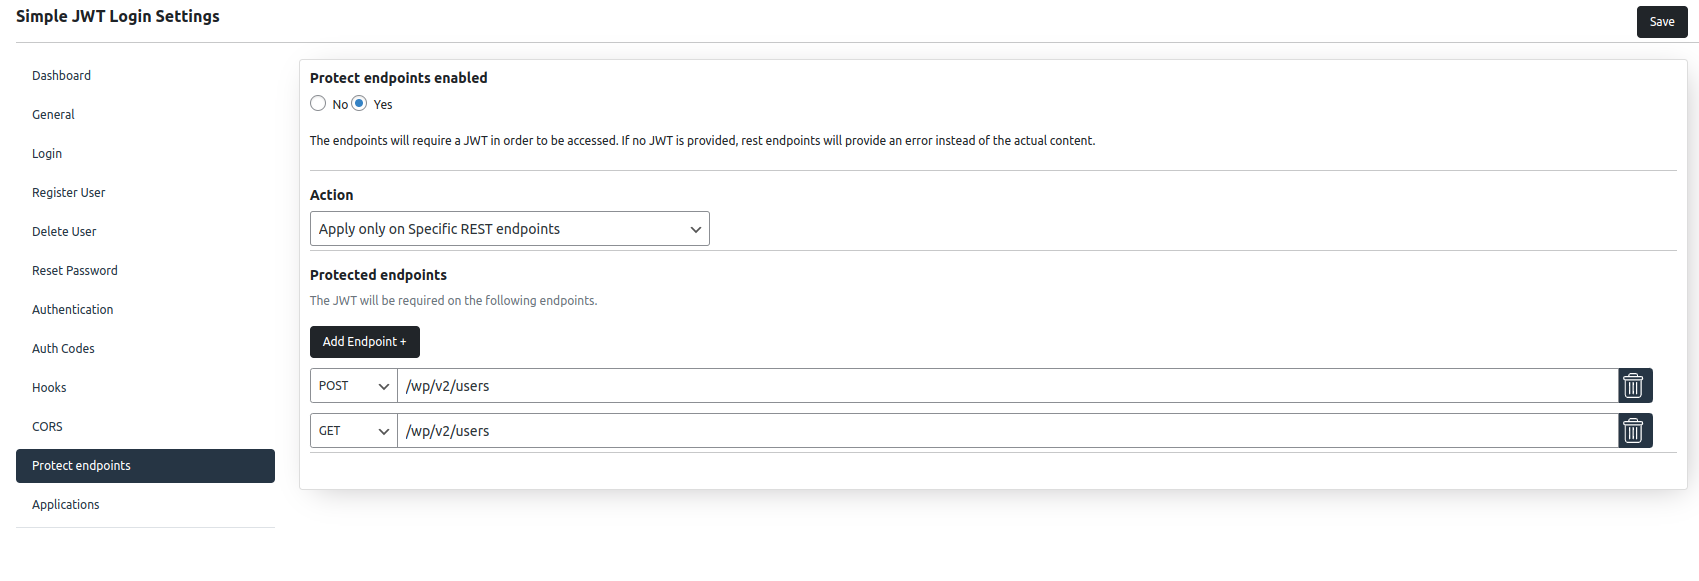
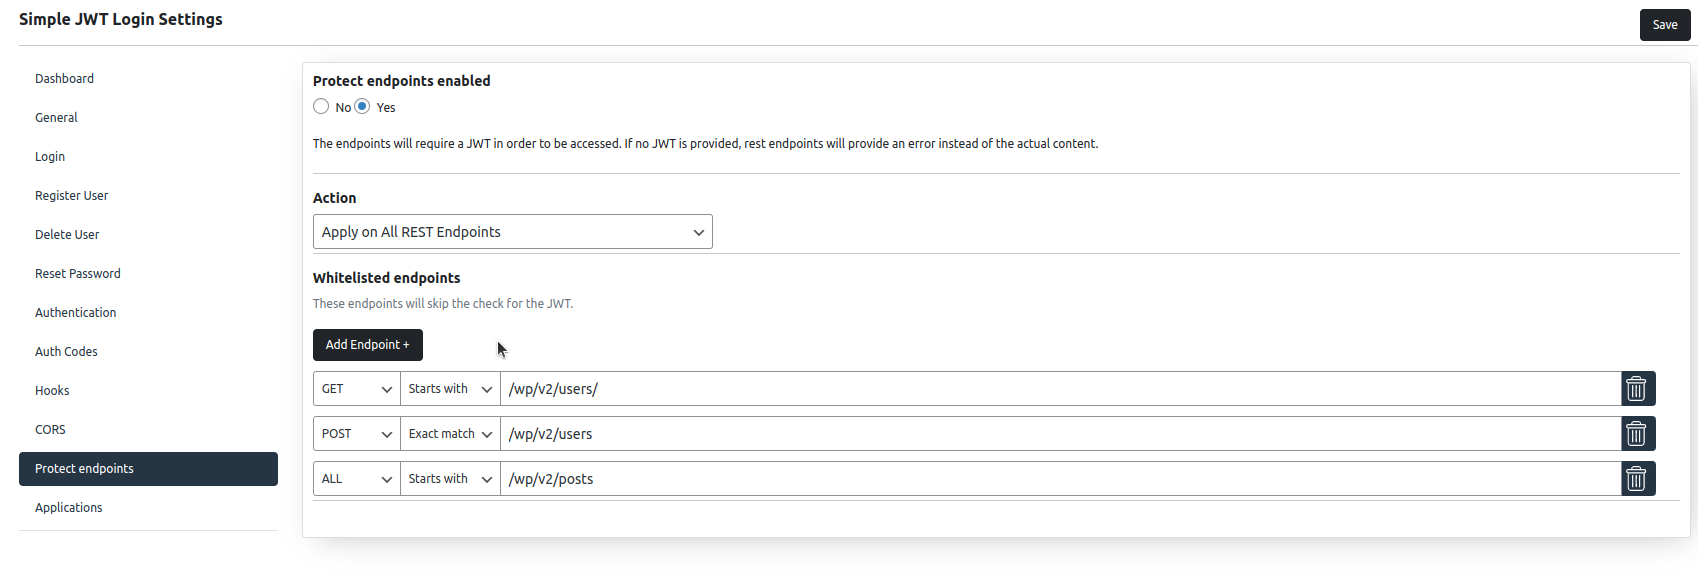
#143: Add starts with & exact match options to Protect Endpoints
* Add match or start_with  option to validate protect endpoints

* Prepare release 3.6.1

---------

diff --git a/simple-jwt-login/views/protect-endpoints-view.php b/simple-jwt-login/views/protect-endpoints-view.php
@@ -18,6 +18,18 @@ if (!defined('ABSPATH')) {
  */
 function simple_jwt_login_draw_endpoin_row($type, $endpoint)
 {
+    $requestMethodsOpts = [
+        ProtectEndpointSettings::REQUEST_METHOD_GET => __('GET', 'simple-jwt-login'),
+        ProtectEndpointSettings::REQUEST_METHOD_POST => __('POST', 'simple-jwt-login'),
+        ProtectEndpointSettings::REQUEST_METHOD_PUT => __('PUT', 'simple-jwt-login'),
+        ProtectEndpointSettings::REQUEST_METHOD_PATCH => __('PATCH', 'simple-jwt-login'),
+        ProtectEndpointSettings::REQUEST_METHOD_DELETE => __('DELETE', 'simple-jwt-login')
+    ];
+
+    $matchesOpts = [
+        ProtectEndpointSettings::ENDPOINT_MATCH_START_WITH => __("Starts with", "simple-jwt-login"),
+        ProtectEndpointSettings::ENDPOINT_MATCH_EXACT => __("Exact match", "simple-jwt-login")
+    ]
     ?>
     <div class="form-group endpoint_row">
         <div class="input-group">
@@ -31,37 +43,29 @@ function simple_jwt_login_draw_endpoin_row($type, $endpoint)
                     <?php echo __("ALL", "simple-jwt-login");?>
                 </option>
                 <optgroup label="<?php echo __('HTTP Methods', 'simple-jwt-login');?>">
-                    <option
-                        value="<?php echo esc_attr(ProtectEndpointSettings::REQUEST_METHOD_GET);?>"
-                        <?php echo (!empty($endpoint) && $endpoint['method'] == ProtectEndpointSettings::REQUEST_METHOD_GET ? 'selected' : '');?>
+                    <!-- request methods options-->
+                    <?php foreach ($requestMethodsOpts as $method => $translation) {?>
+                        <option
+                        value="<?php echo esc_attr($method);?>"
+                        <?php echo (!empty($endpoint) && $endpoint['method'] == $method ? 'selected' : '');?>
                     >
-                        <?php echo __("GET", "simple-jwt-login");?>
+                        <?php echo esc_html($translation)?>
                     </option>
-                    <option
-                        value="<?php echo esc_attr(ProtectEndpointSettings::REQUEST_METHOD_POST);?>"
-                        <?php echo (!empty($endpoint) && $endpoint['method'] == ProtectEndpointSettings::REQUEST_METHOD_POST ? 'selected' : '');?>
-                    >
-                        <?php echo __("POST", "simple-jwt-login");?>
-                    </option>
-                    <option
-                        value="<?php echo esc_attr(ProtectEndpointSettings::REQUEST_METHOD_PUT);?>""
-                        <?php echo (!empty($endpoint) && $endpoint['method'] == ProtectEndpointSettings::REQUEST_METHOD_PUT ? 'selected' : '');?>
-                    >
-                        <?php echo __("PUT", "simple-jwt-login");?>
-                    </option>
-                    <option
-                        value="<?php echo esc_attr(ProtectEndpointSettings::REQUEST_METHOD_PATCH);?>"
-                        <?php echo (!empty($endpoint) && $endpoint['method'] == ProtectEndpointSettings::REQUEST_METHOD_PATCH ? 'selected' : '');?>
-                    >
-                        <?php echo __("PATCH", "simple-jwt-login");?>
-                    </option>
-                    <option
-                        value="<?php echo esc_attr(ProtectEndpointSettings::REQUEST_METHOD_DELETE);?>"
-                        <?php echo (!empty($endpoint) && $endpoint['method'] == ProtectEndpointSettings::REQUEST_METHOD_DELETE ? 'selected' : '');?>
-                    >
-                        <?php echo __("DELETE", "simple-jwt-login");?>
-                    </option>
+                    <?php }?>
                 </optgroup>
+            </select>
+            <select
+                name="<?php echo esc_attr(ProtectEndpointSettings::PROPERTY_GROUP . "[" . $type . "_match][]");?>"
+                >
+                <!-- match options -->
+                <?php foreach ($matchesOpts as $match => $translation) {?>
+                    <option
+                        value="<?php echo esc_attr($match);?>"
+                        <?php echo (!empty($endpoint) && $endpoint['match'] === $match ? 'selected' : '');?>
+                    >
+                        <?php echo esc_html($translation);?>
+                </option>   
+                <?php }?>
             </select>
             <input type="text"
                    name="<?php echo esc_attr(ProtectEndpointSettings::PROPERTY_GROUP . "[" . $type . "][]");?>"

diff --git a/tests/Feature/ProtectEndpoints/MethodsTest.php b/tests/Feature/ProtectEndpoints/MethodsTest.php
@@ -175,14 +175,18 @@ class MethodsTest extends TestBase
                     'whitelist_method' => [
                         'GET',
                         'ALL',
-                    ]
+                    ],
+                    'whitelist_match' => [
+                        ProtectEndpointSettings::ENDPOINT_MATCH_EXACT,
+                        ProtectEndpointSettings::ENDPOINT_MATCH_EXACT,
+                    ],
                 ],
                 'useJWT' => false,
                 'endpoint' => '/wp/v2/posts',
                 'method' => 'GET',
                 'expectedStatusCode' => 403,
             ],
-            'should able to call an non-whitelisted endpoint with JWT' => [
+            'should be able to call an non-whitelisted endpoint with JWT' => [
                 'settings' => [
                     'enabled' => true,
                     'action' => ProtectEndpointSettings::ALL_ENDPOINTS,
@@ -195,10 +199,52 @@ class MethodsTest extends TestBase
                     'whitelist_method' => [
                         'GET',
                         'ALL',
-                    ]
+                    ],
+                    'whitelist_match' => [
+                        ProtectEndpointSettings::ENDPOINT_MATCH_EXACT,
+                        ProtectEndpointSettings::ENDPOINT_MATCH_EXACT,
+                    ],
                 ],
                 'useJWT' => true,
                 'endpoint' => '/wp/v2/posts',
+                'method' => 'GET',
+                'expectedStatusCode' => 200,
+            ],
+            'should not be able to call a non whitelisted endpoint with exact match' => [
+                'settings' => [
+                    'enabled' => true,
+                    'action' => ProtectEndpointSettings::ALL_ENDPOINTS,
+                    'whitelist' => [
+                        '/wp/v2'
+                    ],
+                    'whitelist_method' => [
+                        'ALL',
+                    ],
+                    'whitelist_match' => [
+                        ProtectEndpointSettings::ENDPOINT_MATCH_EXACT,
+                    ]
+                ],
+                'useJWT' => false,
+                'endpoint' => '/wp/v2/users',
+                'method' => 'GET',
+                'expectedStatusCode' => 403,
+            ],
+            'should be able to call protected endpoint with start match' => [
+                'settings' => [
+                    'enabled' => true,
+                    'action' => ProtectEndpointSettings::ALL_ENDPOINTS,
+                    'whitelist' => [
+                        '/wp/v2'
+                    ],
+                    'whitelist_method' => [
+                        'ALL',
+                    ],
+                    'whitelist_match' => [
+                        ProtectEndpointSettings::ENDPOINT_MATCH_START_WITH,
+                    ]
+                ],
+                'useJWT' => false,
+                'endpoint' => '/wp/v2/users',
                 'method' => 'GET',
                 'expectedStatusCode' => 200,
             ],

diff --git a/simple-jwt-login/src/Modules/Settings/ProtectEndpointSettings.php b/simple-jwt-login/src/Modules/Settings/ProtectEndpointSettings.php
@@ -17,6 +17,9 @@ class ProtectEndpointSettings extends BaseSettings implements SettingsInterface
     const REQUEST_METHOD_PATCH = 'PATCH';
     const REQUEST_METHOD_DELETE = 'DELETE';
 
+    const ENDPOINT_MATCH_EXACT = 'EXACT';
+    const ENDPOINT_MATCH_START_WITH = 'STARTS_WITH';
+
     public function initSettingsFromPost()
     {
         $this->assignSettingsPropertyFromPost(
@@ -50,6 +53,13 @@ class ProtectEndpointSettings extends BaseSettings implements SettingsInterface
         );
         $this->assignSettingsPropertyFromPost(
             self::PROPERTY_GROUP,
+            'protect_match',
+            self::PROPERTY_GROUP,
+            'protect_match',
+            BaseSettings::SETTINGS_TYPE_ARRAY
+        );
+        $this->assignSettingsPropertyFromPost(
+            self::PROPERTY_GROUP,
             'whitelist',
             self::PROPERTY_GROUP,
             'whitelist',
@@ -60,6 +70,13 @@ class ProtectEndpointSettings extends BaseSettings implements SettingsInterface
             'whitelist_method',
             self::PROPERTY_GROUP,
             'whitelist_method',
+            BaseSettings::SETTINGS_TYPE_ARRAY
+        );
+        $this->assignSettingsPropertyFromPost(
+            self::PROPERTY_GROUP,
+            'whitelist_match',
+            self::PROPERTY_GROUP,
+            'whitelist_match',
             BaseSettings::SETTINGS_TYPE_ARRAY
         );
     }
@@ -108,7 +125,7 @@ class ProtectEndpointSettings extends BaseSettings implements SettingsInterface
      */
     public function getWhitelistedDomains()
     {
-        return $this->parseProtectSettings('whitelist_method', 'whitelist');
+        return $this->parseProtectSettings('whitelist_method', 'whitelist', 'whitelist_match');
     }
 
     /**
@@ -116,7 +133,7 @@ class ProtectEndpointSettings extends BaseSettings implements SettingsInterface
      */
     public function getProtectedEndpoints()
     {
-        return $this->parseProtectSettings('protect_method', 'protect');
+        return $this->parseProtectSettings('protect_method', 'protect', 'protect_match');
     }
 
     /**
@@ -124,13 +141,16 @@ class ProtectEndpointSettings extends BaseSettings implements SettingsInterface
      * @param string $endpointsKey
      * @return array<int,array<string,mixed>>
      */
-    private function parseProtectSettings($methodKey, $endpointsKey)
+    private function parseProtectSettings($methodKey, $endpointsKey, $matchKey)
     {
         $endpoints = isset($this->settings[ProtectEndpointSettings::PROPERTY_GROUP][$endpointsKey])
             ? (array) $this->settings[ProtectEndpointSettings::PROPERTY_GROUP][$endpointsKey]
             : [''];
         $methods = isset($this->settings[ProtectEndpointSettings::PROPERTY_GROUP][$methodKey])
             ? (array) $this->settings[ProtectEndpointSettings::PROPERTY_GROUP][$methodKey]
+            : [''];
+        $match = isset($this->settings[ProtectEndpointSettings::PROPERTY_GROUP][$matchKey])
+            ? (array) $this->settings[ProtectEndpointSettings::PROPERTY_GROUP][$matchKey]
             : [''];
 
         $return = [];
@@ -140,6 +160,9 @@ class ProtectEndpointSettings extends BaseSettings implements SettingsInterface
                 'method' => !empty($methods[$key])
                     ? strtoupper($methods[$key])
                     : self::REQUEST_METHOD_ALL,
+                'match' => !empty($match[$key])
+                    ? $match[$key]
+                    : self::ENDPOINT_MATCH_START_WITH,
             ];
         }
 

diff --git a/tests/Unit/Modules/Settings/ProtectEndpointSettingsTest.php b/tests/Unit/Modules/Settings/ProtectEndpointSettingsTest.php
@@ -45,7 +45,7 @@ class ProtectEndpointSettingsTest extends TestCase
                         'abc',
                         '',
                         'abc'
-                    ]
+                    ],
                 ]
             ])
             ->withWordPressData($this->wordPressData);
@@ -66,10 +66,12 @@ class ProtectEndpointSettingsTest extends TestCase
                 [
                     'url' => '123',
                     'method' => 'ALL',
+                    'match'  => 'STARTS_WITH',
                 ],
                 [
                     'url' => '123',
                     'method' => 'ALL',
+                    'match'  => 'STARTS_WITH',
                 ],
             ],
             $protectSettings->getProtectedEndpoints()
@@ -80,10 +82,12 @@ class ProtectEndpointSettingsTest extends TestCase
                 [
                     'url' => 'abc',
                     'method' => 'ALL',
+                    'match'  => 'STARTS_WITH',
                 ],
                 [
                     'url' => 'abc',
                     'method' => 'ALL',
+                    'match'  => 'STARTS_WITH',
                 ],
             ],
             $protectSettings->getWhitelistedDomains()
@@ -138,14 +142,17 @@ class ProtectEndpointSettingsTest extends TestCase
                 [
                     'url' => '/protect-first',
                     'method' => 'GET',
+                    'match'  => 'STARTS_WITH',
                 ],
                 [
                     'url' => '/protect-second',
                     'method' => 'ALL',
+                    'match'  => 'STARTS_WITH',
                 ],
                 [
                     'url' => '/protect-third',
                     'method' => 'PUT',
+                    'match'  => 'STARTS_WITH',
                 ],
 
             ],
@@ -157,14 +164,17 @@ class ProtectEndpointSettingsTest extends TestCase
                 [
                     'url' => '/whitelist-first',
                     'method' => 'GET',
+                    'match'  => 'STARTS_WITH',
                 ],
                 [
                     'url' => '/whitelist-second',
                     'method' => 'ALL',
+                    'match'  => 'STARTS_WITH',
                 ],
                 [
                     'url' => '/whitelist-third',
                     'method' => 'PUT',
+                    'match'  => 'STARTS_WITH',
                 ],
 
             ],
@@ -249,10 +259,12 @@ class ProtectEndpointSettingsTest extends TestCase
                 [
                     'url' => 'test',
                     'method' => 'ALL',
+                    'match'  => 'STARTS_WITH',
                 ],
                 [
                     'url' => 'test',
                     'method' => 'ALL',
+                    'match'  => 'STARTS_WITH',
                 ],
             ],
             $settings->getProtectedEndpoints()
@@ -262,10 +274,12 @@ class ProtectEndpointSettingsTest extends TestCase
                 [
                     'url' => '123',
                     'method' => 'ALL',
+                    'match'  => 'STARTS_WITH',
                 ],
                 [
                     'url' => '123',
                     'method' => 'ALL',
+                    'match'  => 'STARTS_WITH',
                 ],
             ],
             $settings->getWhitelistedDomains()

diff --git a/simple-jwt-login/src/Services/ProtectEndpointService.php b/simple-jwt-login/src/Services/ProtectEndpointService.php
@@ -147,8 +147,14 @@ class ProtectEndpointService extends BaseService
             if (empty(trim($protectedURL, '/'))) {
                 continue;
             }
+            // By default, start_with match
+            $match = strpos(strtolower($endpoint), strtolower($protectedURL)) === 0;
 
-            if (strtolower($endpoint) == strtolower($protectedURL)) {
+            if ($protectedEndpoint['match']  === ProtectEndpointSettings::ENDPOINT_MATCH_EXACT) {
+                $match = strtolower($endpoint) == strtolower($protectedURL);
+            }
+
+            if ($match) {
                 switch ($protectedEndpoint['method']) {
                     case ProtectEndpointSettings::REQUEST_METHOD_ALL:
                         $isEndpointProtected = $setValue; // Same as before.

diff --git a/simple-jwt-login/simple-jwt-login.php b/simple-jwt-login/simple-jwt-login.php
@@ -7,7 +7,7 @@
     Author URI: https://profiles.wordpress.org/nicu_m/
     Text Domain: simple-jwt-login
     Domain Path: /i18n
-    Version: 3.6.0
+    Version: 3.6.1
 */
 
 use SimpleJWTLogin\Modules\SimpleJWTLoginSettings;

diff --git a/simple-jwt-login/README.md b/simple-jwt-login/README.md
@@ -6,7 +6,7 @@ Tags: jwt, API, auto login, register, tokens, protect endpoints
 Requires at least: 4.4.0
 Tested up to: 6.7
 Requires PHP: 5.5
-Stable tag: 3.6.0
+Stable tag: 3.6.1
 License: GPLv3
 License URI: https://github.com/nicumicle/simple-jwt-login/blob/master/LICENSE
 
@@ -459,6 +459,10 @@ After that, for the create user route, simply add the AUTH code in the request, 
 == Changelog ==
 
 A complete Changelog is available on the [GitHub repository](https://github.com/nicumicle/simple-jwt-login/blob/master/Changelog.md).
+
+= 3.6.1 (02 Apr 2025) =
+- Validate JWT on protect endpoints[#141](https://github.com/nicumicle/simple-jwt-login/issues/141)
+- Fix backward compatibility for protect endpoints. Add `match`/`start_with` option for endpoints.[#143](https://github.com/nicumicle/simple-jwt-login/issues/143)
 
 = 3.6.0 (24 Mar 2025) =
 - Add support for configuring request methods on Protect endpoints [#129](https://github.com/nicumicle/simple-jwt-login/issues/129)

diff --git a/Changelog.md b/Changelog.md
@@ -1,7 +1,10 @@
 # Changelog - Releases
 
 ## Unreleased
+
+## 3.6.1 (02 Apr 2025)
 - Validate JWT on protect endpoints[#141](https://github.com/nicumicle/simple-jwt-login/issues/141)
+- Fix backward compatibility for protect endpoints. Add `match`/`start_with` option for endpoints.[#143](https://github.com/nicumicle/simple-jwt-login/issues/143)
 
 ## 3.6.0 (24 Mar 2025)
 - CI: Check plugin code syntax with PHP 8.3 and 8.4